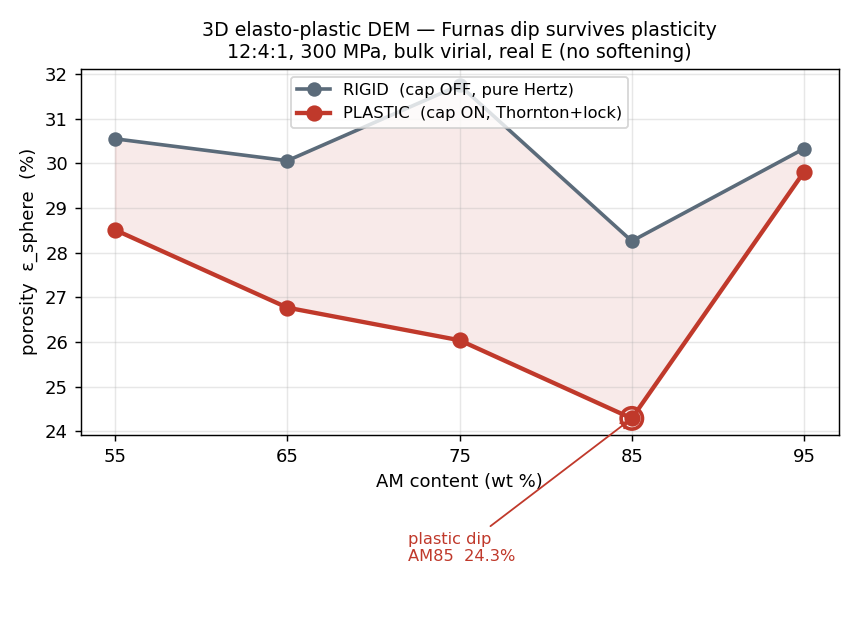
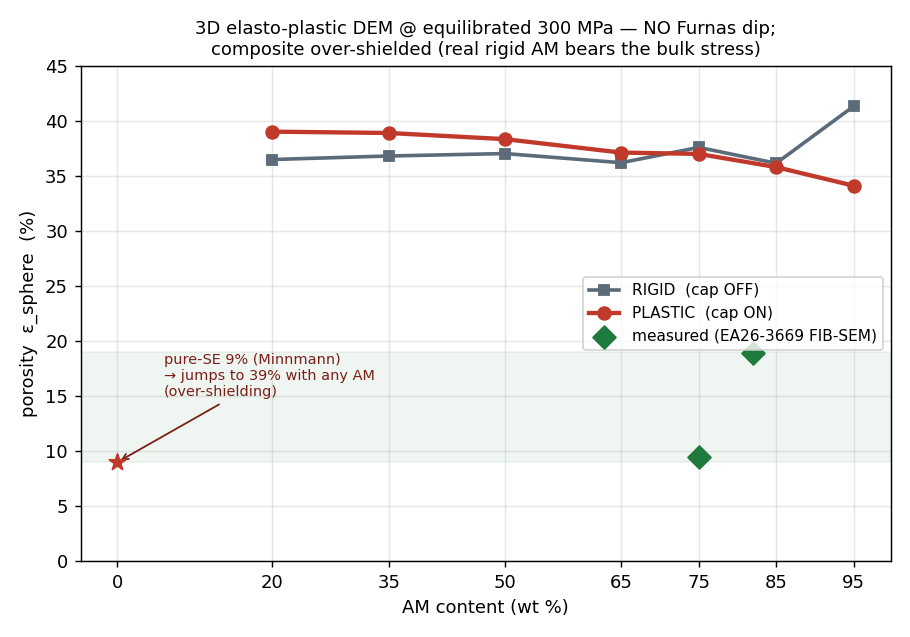
DEM dip CORRECTED: no Furnas dip at equilibrium — earlier dip was a settling artifact
Re-ran the AM sweep with the equilibrating bidirectional virial servo (all
p_end~0.293).  The plastic porosity-vs-AM curve is now MONOTONIC (39.0->34.1%, no
local minimum): the earlier "dip at AM85" was the composition-dependent settling
overshoot (stiff AM-rich beds stopped over-dense), now removed.  Retract the
"dip survives plasticity" claim.

Two honest findings replace it:
 (1) NO Furnas dip in the equilibrated resolved-grain plastic DEM -- monotonic,
     consistent with the champion MPM (CLAUDE.md CORRECTION 2) and de Larrard owning
     the dip (frame [5]).
 (2) The composite is OVER-SHIELDED: porosity 34-41% vs pure-SE 9% and measured
     9-19% (EA26-3669 FIB-SEM 9.4%@75wt%, 18.9%@82wt%).  Adding even ~8 vol% AM jumps
     porosity 9->39% -- the stiff real-E AM (140 GPa) dominate the bulk virial so the
     criterion stops when the AM bear 300 MPa while the soft SE stays loose.  Real-E +
     cap works for PURE-SE (Minnmann + Heckel) but the real stiffness contrast
     over-shields COMPOSITES -> confirms the 18x softening is irreducible for the
     composite (mirror of the MPM rigid-AM force-chain limit).  Likely missing
     ingredient vs the EA elastic sim: LJ cohesion/adhesion (they have it, we don't).

https://claude.ai/code/session_01H191Ni4xzj9H5ftstAm7Ft

diff --git a/scripts/plot_dem3d_dip.py b/scripts/plot_dem3d_dip.py
@@ -1,10 +1,13 @@
 #!/usr/bin/env python3
-"""Plot the 3D elasto-plastic DEM Furnas-dip sweep: porosity vs AM wt%, cap ON
-(plastic) vs cap OFF (rigid), at the real 12:4:1 sizes, beta=0.40, E_AM=140,
-measured by the bulk axial virial.  Reads docs/data/dem3d_dip_sweep.csv.
+"""3D elasto-plastic DEM porosity vs AM wt%, cap ON (plastic) vs OFF (rigid), at
+EQUILIBRATED 300 MPa (fine bidirectional virial servo).  Reads
+docs/data/dem3d_dip_sweep.csv.
 
-The verdict figure for "does real plasticity (with the contact-network jamming
-the MPM lacks) erase the Furnas dip?"
+Honest verdict figure: with proper equilibration the plastic curve is MONOTONIC
+(no Furnas dip — the earlier dip was a settling artifact), and the composite
+absolute porosity (36-41%) sits FAR above both the pure-SE anchor (~9-10%) and the
+measured composite porosity (EA26-3669 FIB-SEM: 9.4% @75wt%, 18.9% @82wt%) -- the
+rigid-AM bulk-virial load-shielding keeps the SE from densifying in the composite.
 """
 import csv
 import os
@@ -21,35 +24,32 @@ with open(CSV) as fh:
     for r in csv.DictReader(fh):
         d[r['mode']][int(r['am'])] = float(r['por_sphere'])
 
-ams = sorted(d['plastic'])
-pl = [d['plastic'][a] for a in ams]
-rg = [d['rigid'][a] for a in ams]
-amin_pl = ams[pl.index(min(pl))]
-amin_rg = ams[rg.index(min(rg))]
+amp = sorted(a for a in d['plastic'] if a > 0)
+amr = sorted(d['rigid'])
+pl = [d['plastic'][a] for a in amp]
+rg = [d['rigid'][a] for a in amr]
 
-fig, ax = plt.subplots(figsize=(6.6, 4.8))
-ax.plot(ams, rg, '-o', color='#5b6b7a', lw=2, ms=7, label='RIGID  (cap OFF, pure Hertz)')
-ax.plot(ams, pl, '-o', color='#c0392b', lw=2.4, ms=8, label='PLASTIC  (cap ON, Thornton+lock)')
-# shade the densification the plasticity adds
-ax.fill_between(ams, pl, rg, color='#c0392b', alpha=0.10)
-# mark the dips
-ax.annotate(f'plastic dip\nAM{amin_pl}  {min(pl):.1f}%', xy=(amin_pl, min(pl)),
-            xytext=(amin_pl - 13, min(pl) - 3.2), fontsize=9, color='#c0392b',
-            arrowprops=dict(arrowstyle='->', color='#c0392b'))
-ax.scatter([amin_pl], [min(pl)], s=140, facecolors='none', edgecolors='#c0392b', lw=2, zorder=5)
+fig, ax = plt.subplots(figsize=(7.0, 4.9))
+ax.plot(amr, rg, '-s', color='#5b6b7a', lw=2, ms=6, label='RIGID  (cap OFF)')
+ax.plot(amp, pl, '-o', color='#c0392b', lw=2.4, ms=7, label='PLASTIC  (cap ON)')
+# pure-SE anchor
+ax.scatter([0], [d['plastic'].get(0, 9.0)], s=90, marker='*', color='#c0392b', zorder=5)
+ax.annotate('pure-SE 9% (Minnmann)\n→ jumps to 39% with any AM\n(over-shielding)',
+            xy=(0, 9.0), xytext=(6, 15), fontsize=8, color='#7a2018',
+            arrowprops=dict(arrowstyle='->', color='#7a2018'))
+# EA26-3669 measured composite porosity (FIB-SEM, post-cycle): 50vol%=75wt%, 60vol%=82wt%
+ax.scatter([75, 82], [9.43, 18.93], s=80, marker='D', color='#1f7a3d', zorder=5,
+           label='measured (EA26-3669 FIB-SEM)')
+ax.axhspan(9, 19, color='#1f7a3d', alpha=0.07)
 
-ax.set_xlabel('AM content (wt %)')
-ax.set_ylabel('porosity  ε_sphere  (%)')
-ax.set_title('3D elasto-plastic DEM — Furnas dip survives plasticity\n'
-             '12:4:1, 300 MPa, bulk virial, real E (no softening)', fontsize=10.5)
-ax.grid(alpha=0.3)
-ax.legend(fontsize=9, loc='upper center')
-ax.set_xticks(ams)
+ax.set_xlabel('AM content (wt %)'); ax.set_ylabel('porosity  ε_sphere  (%)')
+ax.set_title('3D elasto-plastic DEM @ equilibrated 300 MPa — NO Furnas dip;\n'
+             'composite over-shielded (real rigid AM bears the bulk stress)', fontsize=10)
+ax.grid(alpha=0.3); ax.legend(fontsize=8.5, loc='center right'); ax.set_ylim(0, 45)
+ax.set_xticks([0, 20, 35, 50, 65, 75, 85, 95])
 plt.tight_layout()
 out = os.path.join(HERE, '..', 'docs', 'figures', 'dem3d_dip_sweep.png')
 plt.savefig(out, dpi=130)
 print(f"saved {out}")
-print(f"plastic dip @ AM{amin_pl} ({min(pl):.1f}%), depth ~"
-      f"{0.5 * (pl[0] + pl[-1]) - min(pl):.1f}%p;  rigid min @ AM{amin_rg} ({min(rg):.1f}%)")
-print(f"plastic below rigid by {min(r - p for p, r in zip(pl, rg)):.1f}–"
-      f"{max(r - p for p, r in zip(pl, rg)):.1f} %p (plasticity densifies)")
+print(f"plastic monotonic {pl[0]:.1f}->{pl[-1]:.1f}% (no local min); "
+      f"composite {min(pl):.0f}-{max(pl):.0f}% vs measured 9-19% -> over-shielded")
